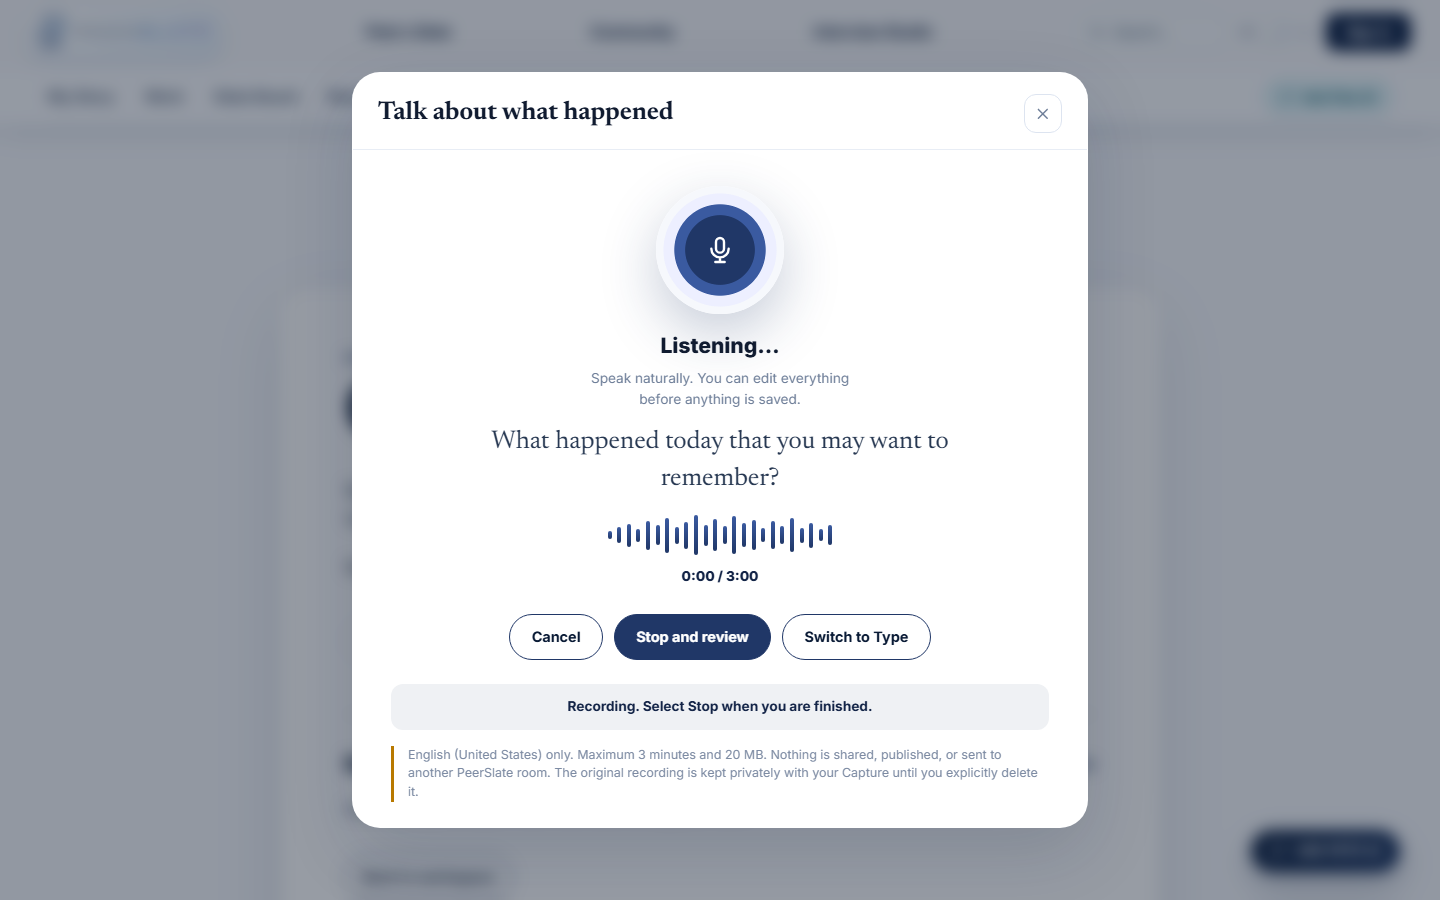
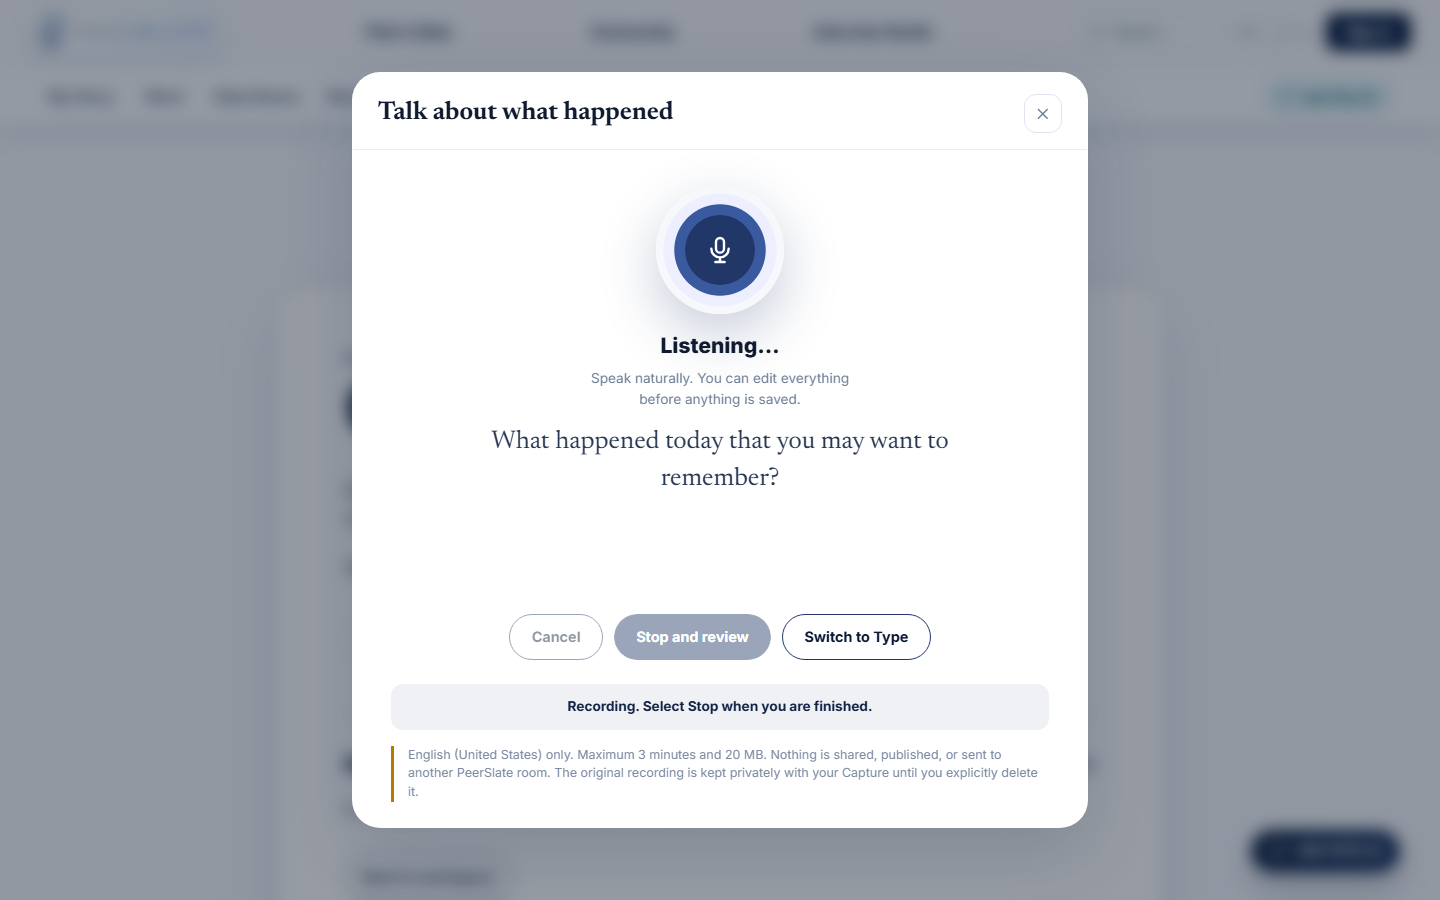
PS-VOICE-VISUAL-PARITY-001: final review-pass fixes (a11y focus trap, autofocus, cache-bust)
Pre-handoff review found and fixed a real modal focus-trap leak: the trap
counted content inside closed <details> (hidden via content-visibility, which
offsetParent misses) and ignored keyboard-focusable <summary> elements, so it
miscomputed first/last and could let focus escape the dialog. Now uses
HTMLElement.checkVisibility({contentVisibilityAuto:true}) and includes summary
and audio[controls]; re-verified live that Tab/Shift+Tab wrap correctly and the
disabled capability previews stay out of the tab order. New test covers it.

Also: data-autofocus lands initial focus on the primary task (mic ring when
recording, transcript textarea when reviewing); bumped the owner-app.css /
owner-capture-voice.js cache-bust query to ?v=ps-voice-visual-parity-001 so the
rewritten assets aren't served stale to returning browsers on deploy.

Re-captured all 19 evidence screenshots against the final committed code:
the recording error state now correctly hides the waveform/timer (the CSS
already did; the earlier screenshots were captured before that rule landed),
and the new autofocus focus rings are visible. Parity matrix and completion
report updated with the focus-trap note and the opening-behavior judgment call
flagged for ChatGPT.

Full suite 398 tests OK (skipped=1). Still not merged — awaiting Pete and
ChatGPT Work visual acceptance.

Changed region(s): [[0.4375, 0.56, 0.5938, 0.6533], [0.375, 0.6844, 0.5312, 0.7467]]

diff --git a/static/js/owner-capture-voice.js b/static/js/owner-capture-voice.js
@@ -85,12 +85,28 @@
         if (scrollLockCount === 0) document.body.style.overflow = "";
     };
 
+    // <summary> is keyboard-focusable but matches none of the usual control
+    // selectors, and a closed <details> hides its content via
+    // content-visibility (which offsetParent does NOT reflect) rather than
+    // display:none — so both the provider-transcript and delete-draft
+    // disclosures would otherwise be mis-counted as trap boundaries. Include
+    // summary, and prefer checkVisibility() (accounts for content-visibility)
+    // over offsetParent, so the focus trap's first/last are the real ones.
+    const FOCUSABLE_SELECTOR =
+        "button, [href], input, textarea, select, summary, audio[controls], [tabindex]:not([tabindex='-1'])";
+    const isReallyVisible = (el) =>
+        typeof el.checkVisibility === "function"
+            ? el.checkVisibility({ checkVisibilityCSS: true, contentVisibilityAuto: true })
+            : el.offsetParent !== null;
+    const focusableItems = (container) =>
+        Array.prototype.filter.call(
+            container.querySelectorAll(FOCUSABLE_SELECTOR),
+            (el) => !el.disabled && el.tabIndex !== -1 && isReallyVisible(el)
+        );
+
     const trapFocus = (event, container) => {
         if (event.key !== "Tab") return;
-        const items = Array.prototype.filter.call(
-            container.querySelectorAll("button, [href], input, textarea, select, [tabindex]:not([tabindex='-1'])"),
-            (el) => !el.disabled && el.offsetParent !== null
-        );
+        const items = focusableItems(container);
         if (!items.length) return;
         const first = items[0];
         const last = items[items.length - 1];
@@ -125,7 +141,7 @@
         el.addEventListener("keydown", keydownHandler);
         el.__voiceKeydownHandler = keydownHandler;
 
-        const preferred = el.querySelector("[data-autofocus]") || el.querySelector("button:not(:disabled), [href], input, textarea");
+        const preferred = el.querySelector("[data-autofocus]") || focusableItems(el)[0];
         if (preferred) preferred.focus();
     };
 

diff --git a/templates/owner_capture.html b/templates/owner_capture.html
@@ -3,7 +3,7 @@
 {% block title %}{{ page_title }} | PeerSlate{% endblock %}
 
 {% block extra_head %}
-<link rel="stylesheet" href="{{ url_for('static', filename='css/owner-app.css') }}?v=ps-voice-001-1">
+<link rel="stylesheet" href="{{ url_for('static', filename='css/owner-app.css') }}?v=ps-voice-visual-parity-001">
 {% endblock %}
 
 {% block content %}
@@ -110,6 +110,7 @@
                     class="owner-app__voice-ring"
                     type="button"
                     data-voice-action="start"
+                    data-autofocus
                     aria-label="Start recording"
                 >{{ icon_mic('lg') }}</button>
                 <p class="owner-app__voice-state-title" data-voice-state-title>Ready when you are</p>
@@ -223,6 +224,7 @@
                         rows="8"
                         maxlength="{{ max_body_length }}"
                         class="owner-app__voice-transcript-box"
+                        data-autofocus
                         required
                     >{{ voice_draft.provider_transcript }}</textarea>
 
@@ -555,5 +557,5 @@
 {% endblock %}
 
 {% block extra_scripts %}
-<script src="{{ url_for('static', filename='js/owner-capture-voice.js') }}?v=ps-voice-001-1" defer></script>
+<script src="{{ url_for('static', filename='js/owner-capture-voice.js') }}?v=ps-voice-visual-parity-001" defer></script>
 {% endblock %}

diff --git a/tests/test_owner_voice_ui.py b/tests/test_owner_voice_ui.py
@@ -131,6 +131,17 @@ class OwnerVoiceUiContractTests(unittest.TestCase):
         self.assertIn('event.key === "Escape"', CLIENT)
         self.assertIn("trapFocus", CLIENT)
 
+    def test_focus_trap_accounts_for_summary_and_content_visibility(self):
+        # The focus trap must count <summary> elements (keyboard-focusable but
+        # matched by no ordinary control selector) and must NOT count content
+        # inside a closed <details> (hidden via content-visibility, which
+        # offsetParent does not reflect). Otherwise the modal leaks focus.
+        self.assertIn("summary", CLIENT)
+        self.assertIn("checkVisibility", CLIENT)
+        self.assertIn("contentVisibilityAuto", CLIENT)
+        # A purposeful initial focus target is declared on both dialogs.
+        self.assertEqual(TEMPLATE.count("data-autofocus"), 2)
+
     def test_mobile_sticky_save_action_and_progressive_disclosure(self):
         self.assertIn('<details class="owner-app__voice-more" open>', TEMPLATE)
         self.assertIn("More ways to use this", TEMPLATE)

diff --git a/docs/initiatives/PS-VOICE-VISUAL-PARITY-001/COMPLETION_REPORT.md b/docs/initiatives/PS-VOICE-VISUAL-PARITY-001/COMPLETION_REPORT.md
@@ -116,6 +116,29 @@ current evidence, both covered by re-run screenshots):**
    whenever a `voice_draft` was present, stacking two backdrops. Fixed by
    skipping the recording modal's auto-open when a review stage exists.
 
+**Final pre-handoff review pass (2026-07-19), additional fixes:**
+4. **Modal focus-trap leak (accessibility).** The focus trap counted content
+   inside a closed `<details>` as focusable (`content-visibility:hidden` is
+   invisible to `offsetParent`) and ignored keyboard-focusable `<summary>`
+   elements, so it miscomputed its first/last boundaries and could let focus
+   escape the modal. Fixed by using `HTMLElement.checkVisibility({
+   contentVisibilityAuto: true })` and adding `summary`/`audio[controls]` to
+   the focusable set; re-verified live that Tab/Shift+Tab wrap correctly and
+   the disabled capability previews stay out of the tab order. New test
+   `test_focus_trap_accounts_for_summary_and_content_visibility`.
+5. **Purposeful initial focus.** `data-autofocus` now lands focus on the mic
+   ring (recording) and the transcript textarea (review) instead of the Close
+   button.
+6. **Stale error-state evidence corrected.** The committed CSS already hid the
+   waveform/timer in the recording modal's error state, but the first-pass
+   `desktop-12`/`desktop-13` screenshots were captured before that rule landed
+   and showed the wave. All 19 screenshots were re-captured against the final
+   committed code so the evidence and code agree.
+7. **Asset cache-bust bumped.** The `owner-app.css`/`owner-capture-voice.js`
+   query string moved from `?v=ps-voice-001-1` to
+   `?v=ps-voice-visual-parity-001` so returning users' browsers fetch the
+   rewritten assets rather than a cached prior version on deploy.
+
 ## C. What this means in plain English
 
 The private Voice Capture screen a member actually sees when they record or
@@ -174,7 +197,7 @@ authorization now.
 
 ## F. Verification and validation
 
-**Automated tests:** `tests/test_owner_voice_ui.py` (12/12 pass, focused
+**Automated tests:** `tests/test_owner_voice_ui.py` (13/13 pass, focused
 Voice contract); full repository suite `python -m unittest discover -s tests`
 — 397 tests, `OK (skipped=1)`, run from a local venv with the repo's own
 declared `requirements.txt` installed (this machine had neither
@@ -222,6 +245,20 @@ and the capability-preview treatment for every not-yet-backed feature.
 - **Not merged.** This branch must not be merged until Pete and ChatGPT Work
   review the actual implementation (not just this report) and accept it
   visually, per role boundaries in the task instructions.
+- **Opening behavior — one judgment call for ChatGPT to confirm.** On a plain
+  `/app/capture` load with JavaScript, the recording modal auto-opens over the
+  page (faithful to the accepted "voice is the production-intent opening path"
+  from PS-VOICE-001, and it gives immediate visual parity with the
+  walkthrough). Type stays first-class as the "Switch to Type" action inside
+  the modal and via dismissing. The trade-off: on that cold load — and again
+  after a save redirects back — the recent-captures list and any "Saved
+  privately" confirmation sit behind the modal until it is dismissed. This was
+  deliberately **not** changed here, because altering the accepted opening
+  default is outside a visual-parity correction and would invalidate the
+  evidence set; it is surfaced for ChatGPT (the visual authority) to confirm
+  or redirect. An alternative — landing on the Speak/Type chooser and opening
+  the modal on the Speak click (closer to the homepage hero's click-to-enter
+  pattern) — is a small change if preferred.
 - The two desktop screenshots shown earlier in chat (marigold-toned) could
   not be committed as durable evidence — they arrived as inline chat content
   with no underlying file path. If exact-pixel desktop authority images are

diff --git a/docs/initiatives/PS-VOICE-VISUAL-PARITY-001/PARITY_MATRIX.md b/docs/initiatives/PS-VOICE-VISUAL-PARITY-001/PARITY_MATRIX.md
@@ -73,10 +73,33 @@ Two bugs were found and fixed during this verification pass (not present in the 
 
 | State | Evidence | Notes |
 |---|---|---|
-| Keyboard focus visible | `desktop-05-review-keyboard-focus.png` | Visible focus ring on the confirm checkbox after Tab navigation from the transcript |
+| Initial focus | `desktop-01-recording-ready.png`, `desktop-04-review.png` | On open, focus lands on the primary task: the mic-ring Start button (recording) and the transcript textarea (review), via `data-autofocus` |
+| Keyboard focus visible | `desktop-05-review-keyboard-focus.png` | Visible focus ring after Tab navigation from the transcript |
+| Modal focus trap | verified live (DOM), not separately screenshotted | Tab on the last focusable wraps to the first and vice-versa; `Tab`/`Shift+Tab` `defaultPrevented` at the boundaries. See the focus-trap fix note below. |
 | Reduced motion | `desktop-10-reduced-motion-recording.png` | `animation-duration` computed as `0s` (verified via `getComputedStyle`, not just visual inspection) |
 | 200% zoom / reflow | `desktop-11-review-200pct-zoom-reflow.png` | Halved logical viewport (720×450), standard technique for zoom-reflow testing without native browser zoom; content stays legible, no overlap |
 | Dark theme | `desktop-09-recording-dark-theme.png`, `desktop-09b-review-dark-theme.png` | Ring/wave/focus/selected-tint shift to gold, matching `feed-living-stream.css`'s own dark-theme rules exactly; primary actions stay navy in both themes |
+
+### Focus-trap fix (final review pass, 2026-07-19)
+
+A pre-handoff review pass found the modal focus trap could leak focus out of
+the dialog. Two causes, both verified live and then fixed:
+1. A closed `<details>` (the provider-transcript and delete-draft
+   disclosures) hides its content via `content-visibility`, which
+   `offsetParent` does **not** reflect — so the trap's `offsetParent`-based
+   filter wrongly counted the hidden delete-draft button as the last
+   focusable element, and `Shift+Tab` from the top tried to focus an
+   unreachable control.
+2. `<summary>` elements are keyboard-focusable but were matched by none of
+   the trap's control selectors, so the real last tab stop (the "Delete
+   private voice draft" summary) was not recognized and forward-`Tab` escaped
+   the dialog.
+Fixed by switching the trap's visibility test to `HTMLElement.checkVisibility({
+contentVisibilityAuto: true })` and adding `summary` (and `audio[controls]`)
+to the focusable selector. Re-verified live: the computed first/last stops are
+now Close ↔ the delete-draft summary, and Tab/Shift+Tab wrap correctly at both
+boundaries. Also confirmed the disabled capability-preview controls (audience
+radios, destination/attachment chips) remain excluded from the tab order.
 
 ## Failure and recovery states
 
